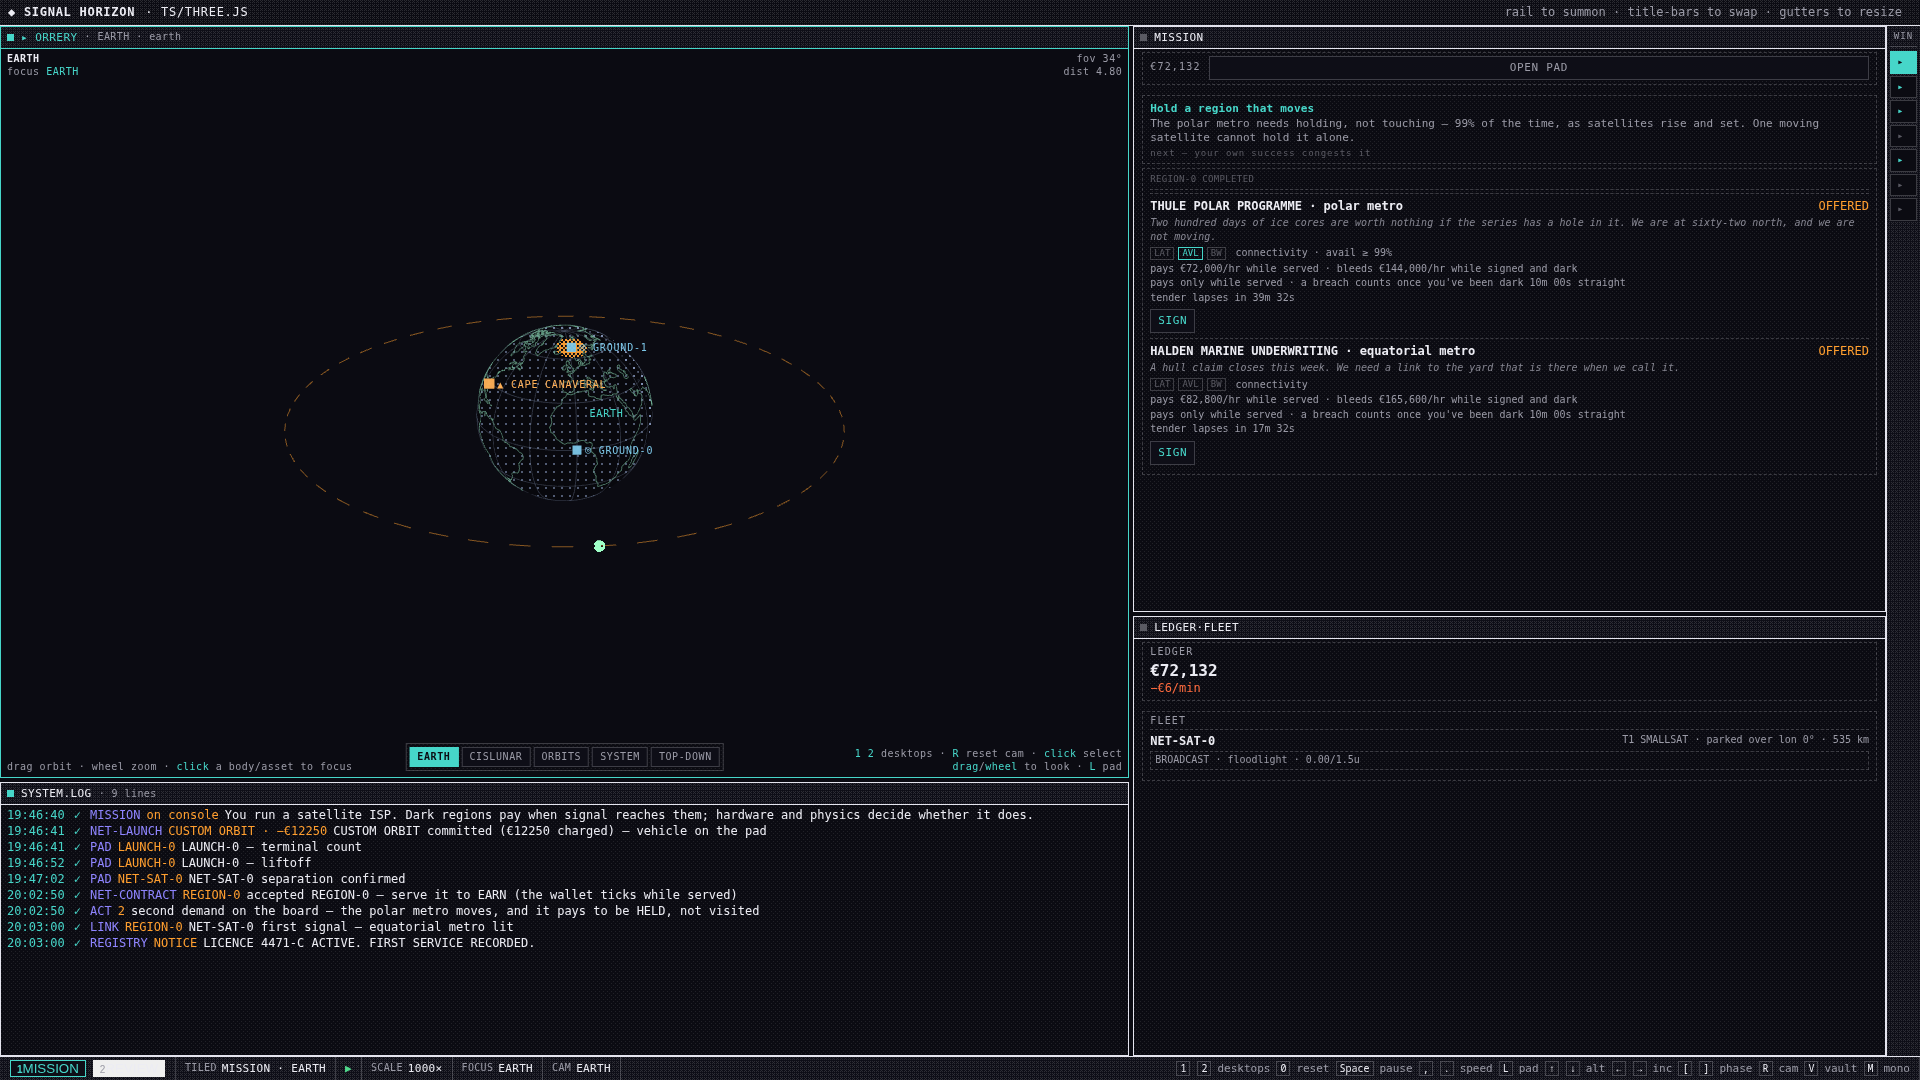
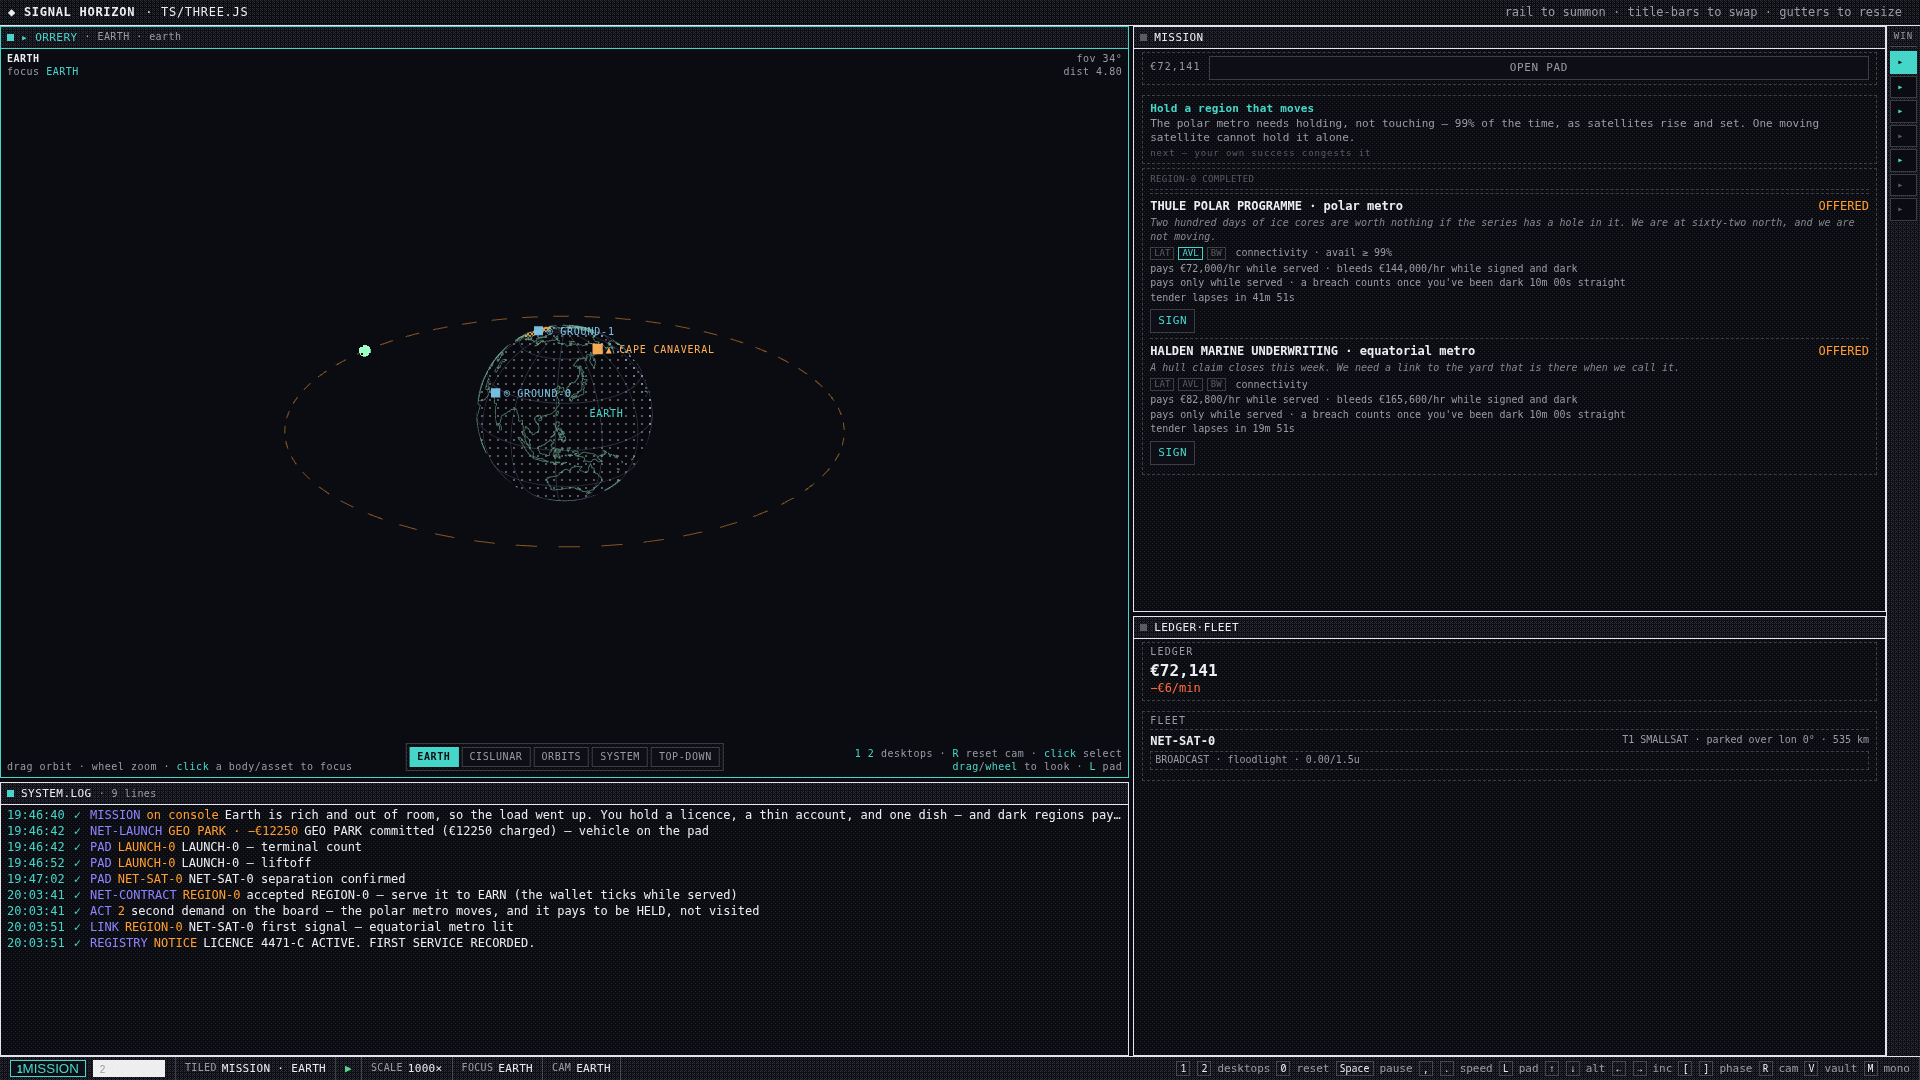
SD-58: the cold open carries the premise — and the intro is skippable three ways
Third slice. The beats doc asked for one ~84-word framing block on a new-game
screen, stated once. There is no new-game screen: the build opens on a typed
boot console that auto-fades and is dismissed by any input, and the only other
always-visible surface is the Wire, which must stay causal and never literary.
An 84-word paragraph fits neither.

So the premise compressed to the medium instead of the medium stretching to the
paragraph. Two sentences now carry rulings §10.1 and §10.2 — Earth prosperous
but capped, and the player a startup holding one licence — while keeping the
mechanic line that was already there:

  "Earth is rich and out of room, so the load went up. You hold a licence, a
   thin account, and one dish — and dark regions pay when signal reaches them,
   while hardware and physics decide whether it does."

One line above it issues the licence in the Registry's own voice — LICENCE
4471-C ISSUED · ORBITAL ALLOCATION REGISTRY — so the regulator and the player's
standing are established before the premise lands, at no reading cost.

The hold went 900 ms → 2400 ms, because ~40 words cannot be read in 900 ms.
Total is ~3.4 s, which is the ~3.2 s the file header always claimed.

WHICH IS EXACTLY WHY SKIPPING NOW MATTERS, and it was already half-broken: any
key or click always dismissed the intro, but nothing said so, and an
undiscoverable skip is not a skip. Three ways past it now:
  - any key or click, with a visible dim affordance in the box;
[…]

Changed region(s): [[0.0938, 0.7333, 0.5625, 0.7944], [0.25, 0.275, 0.375, 0.4583]]

diff --git a/src/panels/boot.ts b/src/panels/boot.ts
@@ -4,13 +4,30 @@
  * is the §8 retro identity moment, NOT a loading screen. Never modal-pauses the sim;
  * dismissed by ANY input (Esc/click/key) or a 3.2 s auto-fade. Once per session.
  */
-import { MISSION_WELCOME } from "../panels/copy";
+import { MISSION_WELCOME, REGISTRY_LICENCE_ISSUED } from "../panels/copy";
 
 const LINE_DELAY_MS = 260;
-const HOLD_MS = 900;
+/** SD-58 — the last line is now the PREMISE, not a status stub, so the hold has to be long
+ * enough to actually read ~40 words. Four lines × 260 ms + this ≈ 3.4 s total, which is the
+ * ~3.2 s the header always claimed. Any input still dismisses instantly, so an impatient
+ * player is never held — the sim is never modal-paused either way. */
+const HOLD_MS = 2400;
 
-/** Mount the boot sequence onto the app root. Returns the dismiss function (for tests). */
-export function runBootSequence(app: HTMLElement, meta: { version: string; seed: string }): () => void {
+/**
+ * Mount the boot sequence onto the app root. Returns the dismiss function (for tests).
+ *
+ * SKIPPABLE, THREE WAYS (SD-58) — the intro must never be something a player sits through:
+ *   1. Any key or click dismisses it instantly (this was always true; it is now VISIBLE,
+ *      which is the part that matters — an undiscoverable skip is not a skip).
+ *   2. "never show this again" persists to prefs, so a returning player never sees it.
+ *   3. The caller can decline to mount it at all (`?intro=0`, or the stored pref).
+ * It never modal-pauses the sim, so skipping costs the player nothing either way.
+ */
+export function runBootSequence(
+  app: HTMLElement,
+  meta: { version: string; seed: string },
+  opts?: { onNeverShowAgain?: () => void },
+): () => void {
   if (document.querySelector(".boot-seq")) return () => {};
   const back = document.createElement("div");
   back.className = "boot-seq";
@@ -25,12 +42,27 @@ export function runBootSequence(app: HTMLElement, meta: { version: string; seed:
   const log = document.createElement("div");
   log.className = "boot-log";
   box.append(title, sub, log);
+  // SD-58 — the skip affordances, dim and out of the way. Chrome, not mission copy.
+  const foot = document.createElement("div");
+  foot.className = "boot-foot";
+  const hint = document.createElement("span");
+  hint.className = "boot-hint";
+  hint.textContent = "any key skips";
+  const never = document.createElement("button");
+  never.className = "boot-never";
+  never.type = "button";
+  never.textContent = "never show this again";
+  foot.append(hint, never);
+  box.appendChild(foot);
   back.appendChild(box);
   app.appendChild(back);
 
   const lines = [
     "LINK MARGINS OK · RF SUBSYSTEMS NOMINAL",
     `EPHEMERIS LOADED · seed ${meta.seed}`,
+    // SD-58 — the Registry issues the licence before the premise line lands, so the regulator
+    // and the player's standing are established in the world's own voice at no reading cost.
+    REGISTRY_LICENCE_ISSUED,
     MISSION_WELCOME,
   ];
   let i = 0;
@@ -44,6 +76,13 @@ export function runBootSequence(app: HTMLElement, meta: { version: string; seed:
   };
   window.addEventListener("keydown", dismiss);
   window.addEventListener("pointerdown", dismiss);
+  // Stop the pointerdown here so the window-level dismiss does not also fire and race the
+  // persist. This handler owns both the remembering and the dismissing.
+  never.addEventListener("pointerdown", (e) => {
+    e.stopPropagation();
+    opts?.onNeverShowAgain?.();
+    dismiss();
+  });
   const step = () => {
     if (i >= lines.length) {
       timers.push(setTimeout(dismiss, HOLD_MS));

diff --git a/src/panels/boot-skip.test.ts b/src/panels/boot-skip.test.ts
@@ -1,0 +1,67 @@
+/**
+ * SD-58 — THE INTRO IS SKIPPABLE, AND THE OPT-OUT STICKS.
+ *
+ * The intro console carries the premise now, and it holds ~2.4 s so ~40 words can be read.
+ * That is exactly the change that makes skipping matter: a player who does not want it must
+ * never sit through it, and must never have to skip it twice.
+ *
+ * Pins the prefs half (the DOM half is covered in the boot scene): the stored pref round-trips,
+ * a v1 blob written before this field still loads, and — the bug the type checker caught — a
+ * partial write from another call site cannot silently wipe it.
+ */
+
+import { describe, it, expect, beforeEach } from "vitest";
+import { loadPrefs, storePrefs } from "../vault";
+
+const PREFS_KEY = "signalhorizon.prefs.v1";
+
+/** A minimal localStorage stand-in — the module reads globalThis.localStorage lazily. */
+function installStore(): Map<string, string> {
+  const m = new Map<string, string>();
+  (globalThis as unknown as { localStorage: unknown }).localStorage = {
+    getItem: (k: string) => (m.has(k) ? m.get(k)! : null),
+    setItem: (k: string, v: string) => void m.set(k, v),
+    removeItem: (k: string) => void m.delete(k),
+  };
+  return m;
+}
+
+describe("SD-58 — the intro skip preference", () => {
+  let store: Map<string, string>;
+  beforeEach(() => {
+    store = installStore();
+  });
+
+  it("defaults to showing the intro", () => {
+    expect(loadPrefs().skipIntro).toBe(false);
+  });
+
+  it("round-trips the opt-out", () => {
+    storePrefs({ ...loadPrefs(), skipIntro: true });
+    expect(loadPrefs().skipIntro).toBe(true);
+  });
+
+  it("a pre-SD-58 prefs blob still loads, with the intro on", () => {
+    // The field did not exist when this was written; absent must read false, not crash.
+    store.set(PREFS_KEY, JSON.stringify({ mono: true, muted: true }));
+    const p = loadPrefs();
+    expect(p.mono).toBe(true);
+    expect(p.muted).toBe(true);
+    expect(p.skipIntro).toBe(false);
+  });
+
+  it("a corrupt blob degrades to defaults rather than throwing", () => {
+    store.set(PREFS_KEY, "{not json");
+    expect(() => loadPrefs()).not.toThrow();
+    expect(loadPrefs().skipIntro).toBe(false);
+  });
+
+  it("toggling another preference does NOT wipe the opt-out", () => {
+    // The real bug tsc caught: call sites that rebuild the prefs literal instead of spreading
+    // the stored one silently drop every field they do not know about. Both mono and mute
+    // writers now spread; this pins that they keep doing so.
+    storePrefs({ ...loadPrefs(), skipIntro: true });
+    storePrefs({ ...loadPrefs(), mono: true, muted: true }); // the mono/mute toggle shape
+    expect(loadPrefs().skipIntro).toBe(true);
+  });
+});

diff --git a/src/main.ts b/src/main.ts
@@ -4328,8 +4328,18 @@ if (netMode && shell.visibleHosts().includes("orrery")) {
   if (prefs.mono) document.documentElement.classList.add("cvd-mono");
   netAudio.setMuted(prefs.muted);
 }
-if (!netDebugView && !netLiveDebugView) {
-  runBootSequence(app, { version: "NET FLIGHTSOFT rev FIRST-LIGHT", seed: String(NET_RNG_SEED) });
+// SD-58 — the intro console is OPT-OUT and the opt-out sticks. Three ways past it: any key or
+// click (visible affordance in the box), "never show this again" (persists to prefs), and
+// ?intro=0 for tooling and for anyone who wants it gone from the URL. Debug views never see it.
+{
+  const introSuppressed = loadPrefs().skipIntro || NET_QUERY.get("intro") === "0";
+  if (!netDebugView && !netLiveDebugView && !introSuppressed) {
+    runBootSequence(
+      app,
+      { version: "NET FLIGHTSOFT rev FIRST-LIGHT", seed: String(NET_RNG_SEED) },
+      { onNeverShowAgain: () => storePrefs({ ...loadPrefs(), skipIntro: true }) },
+    );
+  }
 }
 
 // initial boot: mission boot triplet + first demand evaluation (may launch a packet)
@@ -4428,7 +4438,9 @@ window.addEventListener("keydown", (e) => {
       // X-03 — the 1-bit purist monochrome toggle (colour-off fully playable, the exit check).
       const el = document.documentElement;
       el.classList.toggle("cvd-mono");
-      storePrefs({ mono: el.classList.contains("cvd-mono"), muted: netAudio.isMuted });
+      // SPREAD the stored prefs, never rebuild them: a literal here silently WIPES every
+      // pref this call site does not know about (SD-58's skipIntro was the first casualty).
+      storePrefs({ ...loadPrefs(), mono: el.classList.contains("cvd-mono"), muted: netAudio.isMuted });
       log.append({
         tSim: clock.seconds,
         sev: "info",
@@ -4439,7 +4451,8 @@ window.addEventListener("keydown", (e) => {
     } else if (k === "u" || k === "U") {
       // X-05 — hard mute (persists). No cross-typed cues to manage; the canary stays silent.
       netAudio.setMuted(!netAudio.isMuted);
-      storePrefs({ mono: document.documentElement.classList.contains("cvd-mono"), muted: netAudio.isMuted });
+      // Spread, don't rebuild — see the mono toggle above.
+      storePrefs({ ...loadPrefs(), mono: document.documentElement.classList.contains("cvd-mono"), muted: netAudio.isMuted });
       log.append({
         tSim: clock.seconds,
         sev: "info",

diff --git a/src/panels/copy.ts b/src/panels/copy.ts
@@ -42,9 +42,19 @@ export const MISSION_OBJECTIVES: readonly { title: string; detail: string }[] = 
   },
 ];
 
-/** The Act-1 cold-open line (one sentence, no lecture). */
+/**
+ * The Act-1 cold-open (SD-58: now carries the PREMISE, not just the mechanic).
+ *
+ * `docs/signal-horizon-beats.md` §3 asks for one ~84-word framing block, stated once. The
+ * build has no new-game screen to put it on: the boot console (panels/boot.ts) auto-fades in
+ * ~3.2 s and is dismissed by ANY input, and the Wire must stay causal and never literary. An
+ * 84-word paragraph fits none of those, so the premise COMPRESSES to the medium instead of
+ * the medium stretching to the paragraph. Two sentences carry three of the four rulings:
+ * Earth is prosperous but capped (§10.1), the player is a startup holding one licence
+ * (§10.2), and the existing mechanic line survives intact.
+ */
 export const MISSION_WELCOME =
-  "You run a satellite ISP. Dark regions pay when signal reaches them; hardware and physics decide whether it does.";
+  "Earth is rich and out of room, so the load went up. You hold a licence, a thin account, and one dish — and dark regions pay when signal reaches them, while hardware and physics decide whether it does.";
 
 /** Tender-row verdict fragments (facts about the OFFER, never solved answers). */
 export const TENDER_BET = (payPerHr: string, penaltyPerHr: string): string =>
@@ -73,6 +83,9 @@ export const WIRE_FIRST_SIGNAL = (satId: string, regionLabel: string): string =>
  * act on (`docs/signal-horizon-beats.md` §4, §5).
  */
 export const NET_LICENCE_ID = "4471-C";
+/** The boot-console line that ISSUES the licence — the Registry establishes itself, and the
+ * player's standing, before the premise line lands. Zero reading cost; pure scene-setting. */
+export const REGISTRY_LICENCE_ISSUED = `LICENCE ${NET_LICENCE_ID} ISSUED · ORBITAL ALLOCATION REGISTRY`;
 /** B1 FIRST LIGHT — the first service ever recorded against the licence. */
 export const REGISTRY_FIRST_SERVICE = `LICENCE ${NET_LICENCE_ID} ACTIVE. FIRST SERVICE RECORDED.`;
 /** B4 THE FIRST BREACH — a contract fell past grace. Stated, not scolded. */

diff --git a/src/style.css b/src/style.css
@@ -1079,6 +1079,14 @@ body {
 .mission-terms { font-size: 10px; color: var(--fg-dim); margin-left: 6px; }
 /* SD-58 — the tender reason line: the customer's voice, subordinate to every number on the
    row. Italic + dim so it reads as scenery the eye can skip; it carries no mechanical load. */
+/* SD-58 — the intro's skip affordances. Dim, small, bottom-right: discoverable without
+   competing with the console lines. The "never" control is a button so it is keyboard
+   reachable; both sit outside the typed-line flow so they are there from the first frame. */
+.boot-foot { display: flex; justify-content: flex-end; align-items: center; gap: 12px; margin-top: 10px; }
+.boot-hint { font-size: 10px; color: var(--fg-dim); opacity: 0.6; }
+.boot-never { font: inherit; font-size: 10px; background: none; border: 1px solid var(--line-dim);
+  color: var(--fg-dim); opacity: 0.75; padding: 2px 7px; cursor: pointer; }
+.boot-never:hover, .boot-never:focus-visible { opacity: 1; border-color: var(--fg-dim); }
 .mission-tender-reason { font-size: 10px; color: var(--fg-dim); font-style: italic; margin: 2px 0 3px; line-height: 1.4; opacity: 0.85; }
 .mission-tender-reason:empty { display: none; }
 .mission-tender-bet { font-size: 10px; color: var(--fg-dim); }

diff --git a/src/vault.ts b/src/vault.ts
@@ -95,20 +95,23 @@ export function clearVault(slot?: VaultSlot): void {
 export interface StoredPrefs {
   mono: boolean;
   muted: boolean;
+  /** SD-58 — the player asked never to see the intro console again. Defaults false. */
+  skipIntro: boolean;
 }
 
 const PREFS_KEY = "signalhorizon.prefs.v1";
 
 export function loadPrefs(): StoredPrefs {
   const store = storage();
-  if (!store) return { mono: false, muted: false };
+  if (!store) return { mono: false, muted: false, skipIntro: false };
   try {
     const raw = store.getItem(PREFS_KEY);
-    if (raw === null) return { mono: false, muted: false };
+    if (raw === null) return { mono: false, muted: false, skipIntro: false };
     const p = JSON.parse(raw) as Partial<StoredPrefs>;
-    return { mono: p.mono === true, muted: p.muted === true };
+    // Absent key reads false, so a v1 prefs blob written before SD-58 stays valid.
+    return { mono: p.mono === true, muted: p.muted === true, skipIntro: p.skipIntro === true };
   } catch {
-    return { mono: false, muted: false };
+    return { mono: false, muted: false, skipIntro: false };
   }
 }
 

diff --git a/docs/decisions.md b/docs/decisions.md
@@ -1247,9 +1247,46 @@ constructor) remains unbuilt and is now the largest open piece of the §7 epic.
 
 ---
 
-### SD-58 — THE SETTING AND THE BEATS: a story foundation, ruled and written (2026-09-01)
+### SD-58 — THE SETTING AND THE BEATS: a story foundation, ruled, written, and (in part) built (2026-09-01)
 
-**Status: PROPOSED.** Two new docs, `signal-horizon-setting.md` (v0.4) and
+**Status: docs PROPOSED; the first three slices BUILT on `story-into-game`.**
+
+**BUILT (2026-09-01), verified by playing:**
+
+1. **The cast.** Contracts carry a folded `clientId`; the copy lives in `panels/clients.ts` and
+   is looked up at render, so the sim stays headless and every word stays under copy-lint. All
+   five authored tenders are cast BY ENFORCED AXIS — Halden Marine on Act 1's connectivity-only
+   opener, Thule Polar on Act 2's 62°N availability wall, Verity Wire on Act 3a's latency
+   corridor, Sable Line on the bulk backhaul that shares the pipe, Tharsis Survey on Act 4's
+   Mars teaser. Renewals inherit the client. Persist spreads the contract, so no golden re-pin.
+2. **The Registry.** B1 FIRST LIGHT (`LICENCE 4471-C ACTIVE. FIRST SERVICE RECORDED.`) on the
+   first service ever recorded, and B4 on the first contract to reach "failed" — both
+   licence-level, once per game, render-only edges in `drainMissionWire`. No new folded state.
+3. **The premise, in the cold open** — see the AS BUILT note in `signal-horizon-beats.md` §3.
+   The 84-word block had nowhere to live, so it compressed to two sentences, preceded by the
+   Registry issuing the licence. The intro is skippable three ways (any input with a visible
+   affordance, a persisted "never show this again", and `?intro=0`).
+
+The act1 playtest scene now pins B1 and the tender reason line, so the story layer is covered
+by the thing that actually plays the game. 958 tests green; smoke clean; 17/17 playtest.
+
+**Two defects found while building, both fixed here:**
+- `storePrefs` had **two call sites that rebuilt the prefs literal** instead of spreading the
+  stored one, so any pref they did not know about was silently wiped on a mono or mute toggle.
+  `skipIntro` was the first casualty; tsc caught it the moment the field was added. Both now
+  spread, and a test pins it.
+- A red playtest assertion for B1 turned out to be a **stale vite dev server**, not a defect:
+  its file watcher had silently stopped picking up edits, so it served pre-edit transforms of
+  `copy.ts` and `main.ts`. A red assertion against a stale server is indistinguishable from a
+  real bug — check what the server is actually serving (`curl` the module) before believing it.
+
+**STILL DOC-ONLY:** everything past Act 4 — Eras 2–4 (cislunar, Mars, Custody/0001-U) and the
+whole unlicensed P-thread, whose cheap tier needs an unlicensed-hop route option and an
+attestation-valid flag, and whose P1/P6 need an interference term GDD §3b defers past 1.0.
+
+---
+
+**The docs as proposed:** Two new docs, `signal-horizon-setting.md` (v0.4) and
 `signal-horizon-beats.md` (v0.2). The GDD is untouched; its version discipline bars new systems
 until the M1 gate runs, and nothing here asks it to change.
 

diff --git a/docs/signal-horizon-beats.md b/docs/signal-horizon-beats.md
@@ -90,7 +90,8 @@ faction. **0001-U** (§6a of the setting, Era 4 below) is filed in the same clas
 
 ## 3. The one paragraph, once
 
-The only place the premise is stated outright. New-game screen, 84 words, no music sting.
+The only place the premise is stated outright. No music sting. **As drafted** — 84 words, on a
+new-game screen:
 
 > Earth is rich and out of room. The power, the water, and the permission ran out before the demand
 > did, so the load went up — and the industry followed it to the Moon, and then further. The
@@ -98,6 +99,27 @@ The only place the premise is stated outright. New-game screen, 84 words, no mus
 > else. You hold a licence, a thin account, and one dish.
 >
 > Somewhere out there a customer needs to know something right now, and light is not going to help.
+
+### AS BUILT (SD-58) — the premise compressed to the medium
+
+**There is no new-game screen to put 84 words on.** The build opens on a typed boot console
+(`panels/boot.ts`) that auto-fades and is dismissed by any input, and the only other
+always-visible surface is the Wire, which must stay causal and never literary (§1 rule 4). An
+84-word block fits neither. So the premise **compressed to the medium** rather than the medium
+stretching to the paragraph — two sentences carrying rulings §10.1 and §10.2:
+
+> Earth is rich and out of room, so the load went up. You hold a licence, a thin account, and one
+> dish — and dark regions pay when signal reaches them, while hardware and physics decide whether
+> it does.
+
+The line above it issues the licence in the Registry's own voice —
+`LICENCE 4471-C ISSUED · ORBITAL ALLOCATION REGISTRY` — establishing the regulator and the
+player's standing at no reading cost, before the premise lands.
+
+**Skippable three ways**, because an intro nobody can escape is worse than no intro: any key or
+click (with a *visible* affordance — an undiscoverable skip is not a skip), a "never show this
+again" control that persists to prefs, and `?intro=0`. It never pauses the sim, and the debug
+views never mount it.
 
 ## 4. Grammar
 
